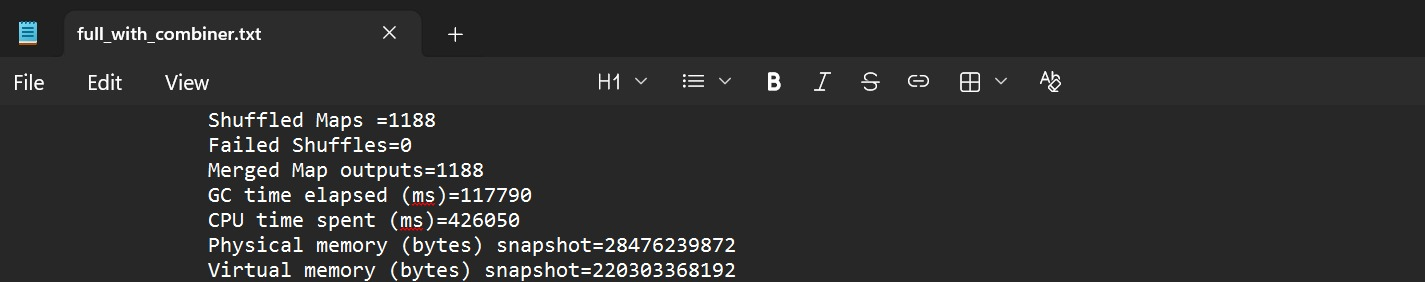
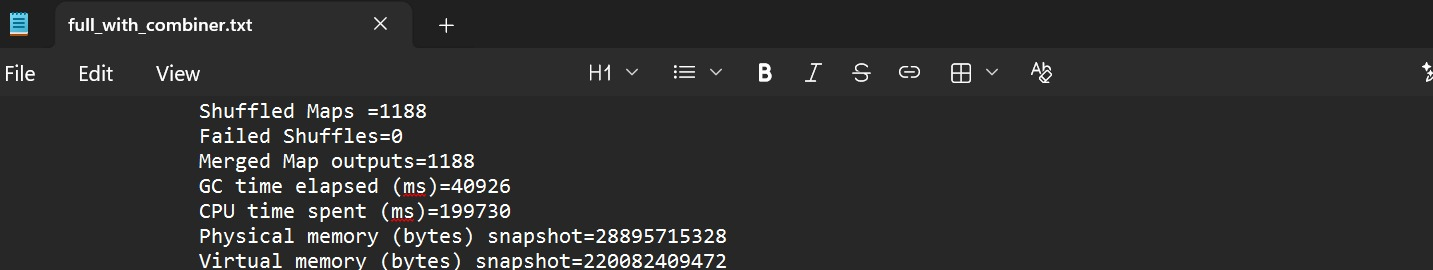
edited readme

diff --git a/README.md b/README.md
@@ -88,7 +88,7 @@ Here is the comparison showing the execution and data shuffle difference between
 
 ![Task 11 With Combiner](output/task11/Full_with_combiner.jpeg)
 
-**CPU time spent(ms)**: **426050** ~= **7.1 min** 
+**CPU time spent(ms)**: **199730** ~= **3.3 min** 
 
 ### Conclusion
 **The job performed faster without the Combiner.**   